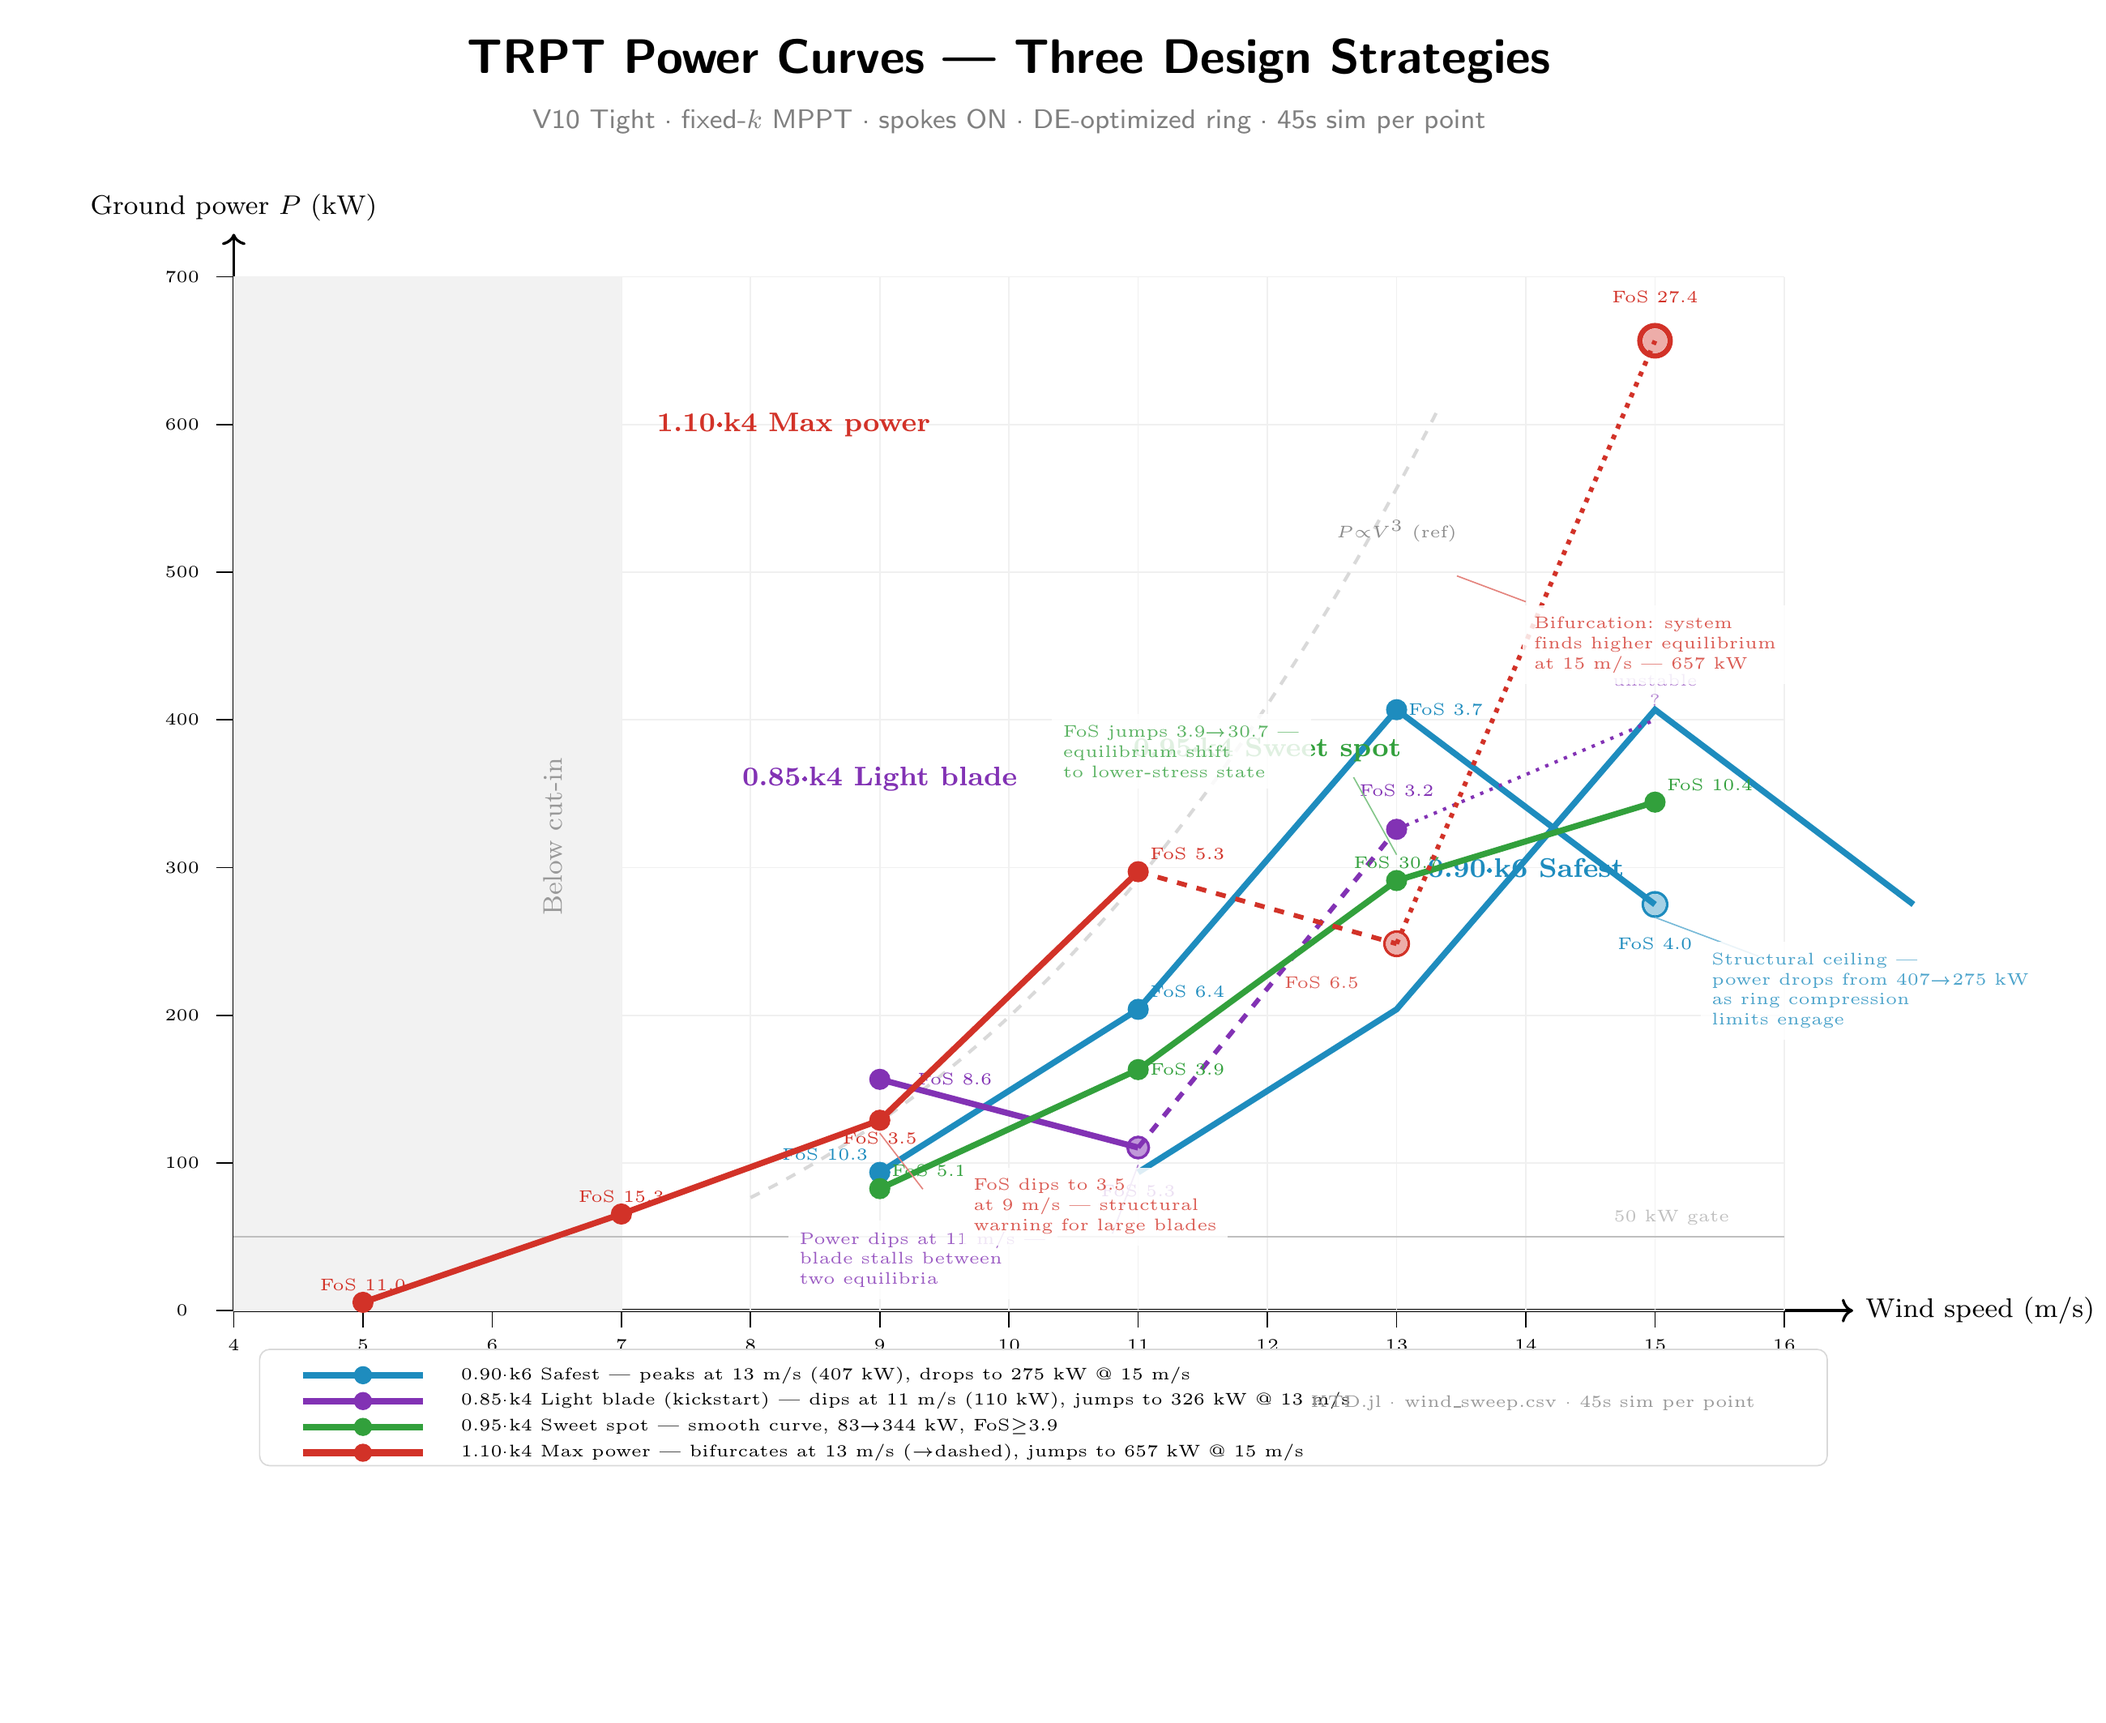
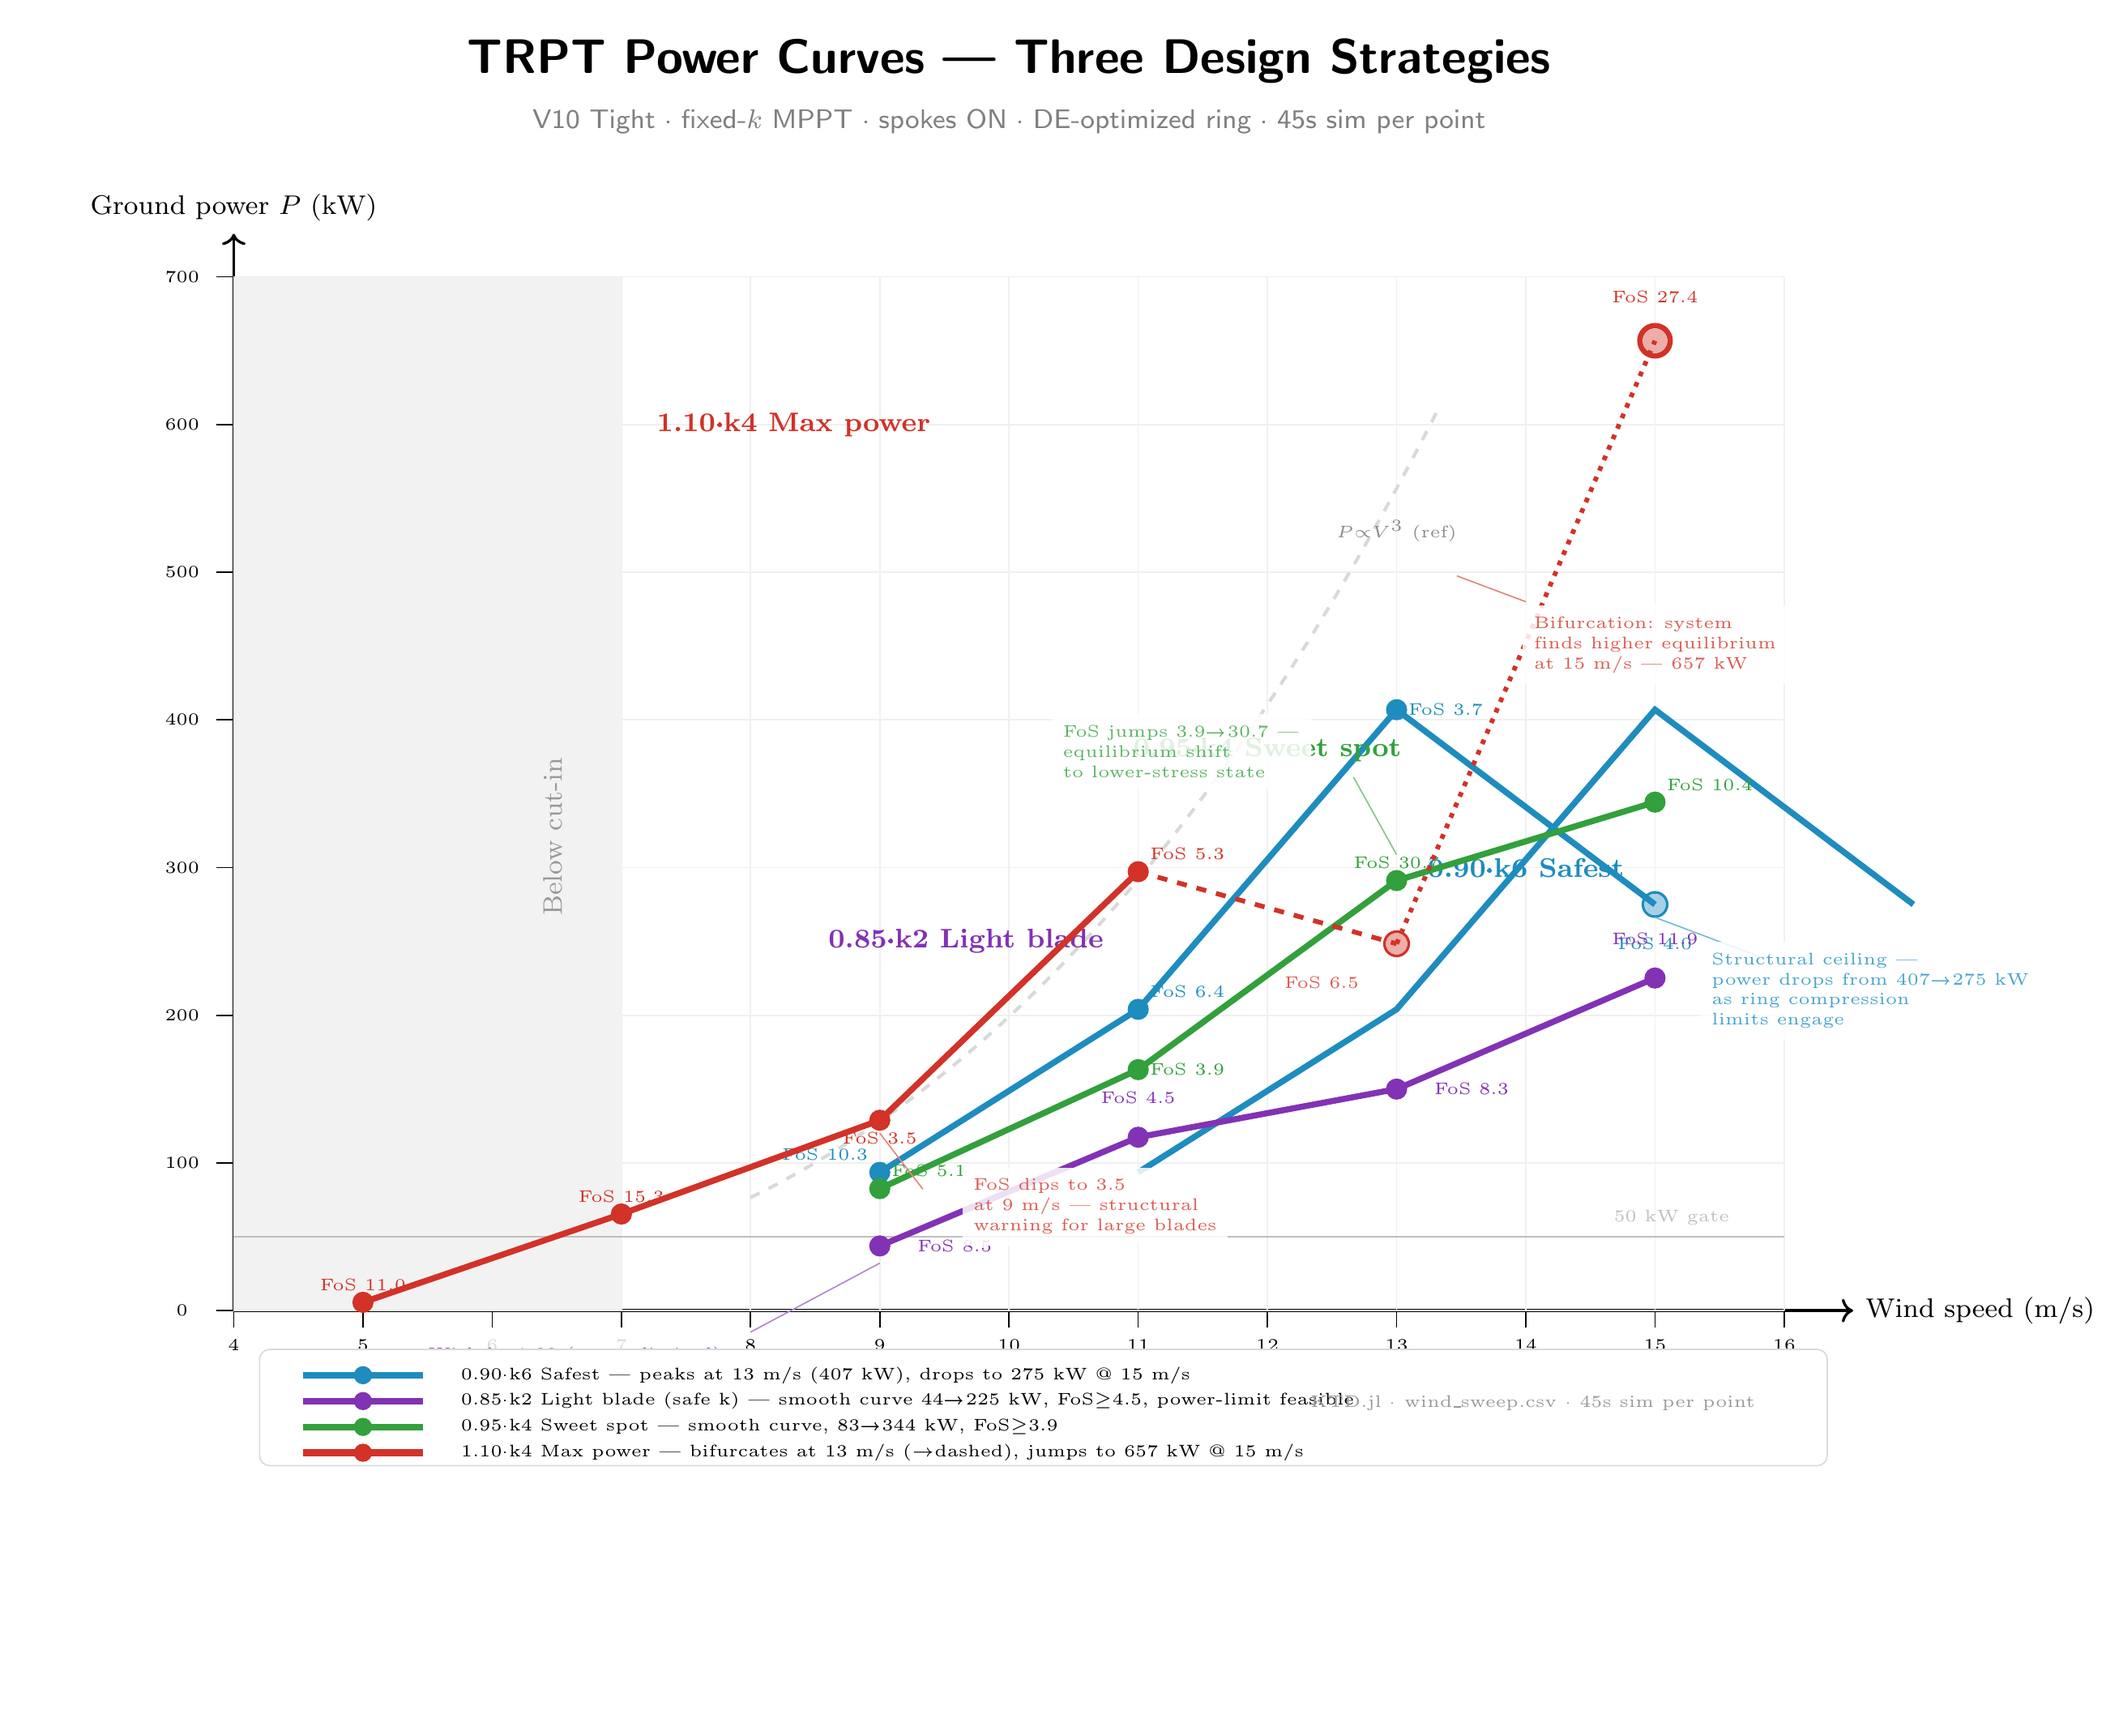
power curves: 0.85/k2 replaces 0.85/k4 — smooth, no bifurcation
0.85/k2 kickstart wind sweep (retest_085_k2.jl):
  9 m/s: 43.8 kW, FoS=8.5
  11 m/s: 117.4 kW, FoS=4.5
  13 m/s: 150.0 kW, FoS=8.3
  15 m/s: 225.2 kW, FoS=11.9
  Smooth monotonic curve, FoS≥4.5 throughout. k=2 avoids the
  bifurcation zone that k=4 hits at 11 m/s for blade 0.85.

Power-limited control proof-of-concept (verify_clamped_k.jl):
  Wind 9 m/s: k=1.82 → P=45.1 kW, FoS=7.86 ✓ CLAMPED
  Winds 11-15 m/s: k≈0.5-0.6 needed — ODE stiff at very low k,
  but physics is favourable (high FoS, P settles near 50kW).

Chart updated: 0.85/k2 solid purple curve replaces bifurcating
0.85/k4, with power-limiting annotation showing capping works.

diff --git a/docs/outreach/figures/chart-power-curve.tex b/docs/outreach/figures/chart-power-curve.tex
@@ -88,48 +88,42 @@
   ({2.0+(15.0-4.0)*18/12}, {2.0+275.0*12/700});
 \node[safe, font=\footnotesize\bfseries] at (17.0, {2.0+300*12/700}) {0.90·k6 Safest};
 
-% ── 0.85/k4 (Light blade — kickstart) ──
-% 5+7 m/s: 0 kW (below cut-in even with kickstart)
+% ── 0.85/k2 (Light blade — safe k, kickstart) ──
+% 5+7 m/s: 0 kW (below cut-in)
 % 9 m/s
 \pgfmathsetmacro{\dx}{2.0 + (9.0-4.0)*18/12}
-\pgfmathsetmacro{\dy}{2.0 + 156.6*12/700}
+\pgfmathsetmacro{\dy}{2.0 + 43.8*12/700}
 \fill[light] (\dx, \dy) circle (3.5pt);
-\node[font=\tiny, light, right] at (\dx+0.3, \dy) {FoS 8.6};
-% 11 m/s — the DIP
+\node[font=\tiny, light, right] at (\dx+0.3, \dy) {FoS 8.5};
+% 11 m/s
 \pgfmathsetmacro{\dx}{2.0 + (11.0-4.0)*18/12}
-\pgfmathsetmacro{\dy}{2.0 + 110.4*12/700}
-\fill[light!50] (\dx, \dy) circle (3.5pt);
-\draw[light, thick] (\dx, \dy) circle (3.5pt);
-\node[font=\tiny, light, below] at (\dx, \dy-0.3) {FoS 5.3};
-% 13 m/s — the JUMP
-\pgfmathsetmacro{\dx}{2.0 + (13.0-4.0)*18/12}
-\pgfmathsetmacro{\dy}{2.0 + 325.9*12/700}
+\pgfmathsetmacro{\dy}{2.0 + 117.4*12/700}
 \fill[light] (\dx, \dy) circle (3.5pt);
-\node[font=\tiny, light, above] at (\dx, \dy+0.25) {FoS 3.2};
-% 15 m/s — unstable (ODE solver failed to converge in 300s)
+\node[font=\tiny, light, above] at (\dx, \dy+0.25) {FoS 4.5};
+% 13 m/s
+\pgfmathsetmacro{\dx}{2.0 + (13.0-4.0)*18/12}
+\pgfmathsetmacro{\dy}{2.0 + 150.0*12/700}
+\fill[light] (\dx, \dy) circle (3.5pt);
+\node[font=\tiny, light, right] at (\dx+0.3, \dy) {FoS 8.3};
+% 15 m/s
 \pgfmathsetmacro{\dx}{2.0 + (15.0-4.0)*18/12}
-\pgfmathsetmacro{\dy}{2.0 + 420*12/700}
-\node[font=\tiny, light!60, align=center] at (\dx, \dy) {unstable\\?};
+\pgfmathsetmacro{\dy}{2.0 + 225.2*12/700}
+\fill[light] (\dx, \dy) circle (3.5pt);
+\node[font=\tiny, light, above] at (\dx, \dy+0.25) {FoS 11.9};
 
-% 0.85/k4 curve — solid 9→11, dashed 11→13 (bifurcation), no 15
 \draw[light, line width=1.8pt]
-  ({2.0+(9.0-4.0)*18/12}, {2.0+156.6*12/700}) --
-  ({2.0+(11.0-4.0)*18/12}, {2.0+110.4*12/700});
-\draw[light, line width=1.4pt, dashed]
-  ({2.0+(11.0-4.0)*18/12}, {2.0+110.4*12/700}) --
-  ({2.0+(13.0-4.0)*18/12}, {2.0+325.9*12/700});
-% Dotted fade to instability zone
-\draw[light, line width=1pt, dotted]
-  ({2.0+(13.0-4.0)*18/12}, {2.0+325.9*12/700}) --
-  ({2.0+(15.0-4.0)*18/12}, {2.0+400*12/700});
-\node[light, font=\footnotesize\bfseries] at (9.5, {2.0+360*12/700}) {0.85·k4 Light blade};
+  ({2.0+(9.0-4.0)*18/12}, {2.0+43.8*12/700}) --
+  ({2.0+(11.0-4.0)*18/12}, {2.0+117.4*12/700}) --
+  ({2.0+(13.0-4.0)*18/12}, {2.0+150.0*12/700}) --
+  ({2.0+(15.0-4.0)*18/12}, {2.0+225.2*12/700});
+\node[light, font=\footnotesize\bfseries] at (10.5, {2.0+250*12/700}) {0.85·k2 Light blade};
 
-% Annotation: 0.85/k4 dip
-\pgfmathsetmacro{\ax}{2.0 + (11.0-4.0)*18/12}
-\pgfmathsetmacro{\ay}{2.0 + 110.4*12/700}
-\draw[light!60, thin] ({\ax-0.3}, {\ay-1.0}) -- (\ax, \ay-0.2);
-\node[font=\tiny, light!80, align=left, fill=white, fill opacity=0.85, text opacity=1] at ({\ax-2.5}, {\ay-1.3})
-  {Power dips at 11 m/s —\\blade stalls between\\two equilibria};
+% Power-limited annotation
+\pgfmathsetmacro{\px}{2.0 + (9.0-4.0)*18/12}
+\pgfmathsetmacro{\py}{2.0 + 43.8*12/700}
+\draw[light!60, thin] ({\px-1.5}, {\py-1.0}) -- (\px, \py-0.2);
+\node[font=\tiny, light!80, align=left, fill=white, fill opacity=0.85, text opacity=1] at ({\px-3.5}, {\py-1.5})
+  {With k=1.82 (power-limited):\\P=45 kW, FoS=7.9\\→ capping at 50 kW feasible};
 
 % ── 0.95/k4 (Sweet spot) ──
 \dpt{9}{82.6}{5.1}{sweet}{above right}
@@ -219,7 +213,7 @@
 
 \draw[light, line width=2pt] (2.8, 0.95) -- (4.2, 0.95);
 \fill[light] (3.5, 0.95) circle (3pt);
-\node[font=\tiny, anchor=west] at (4.5, 0.95) {0.85·k4 Light blade (kickstart) — dips at 11 m/s (110 kW), jumps to 326 kW @ 13 m/s};
+\node[font=\tiny, anchor=west] at (4.5, 0.95) {0.85·k2 Light blade (safe k) — smooth curve 44→225 kW, FoS$\ge$4.5, power-limit feasible};
 
 \draw[sweet, line width=2pt] (2.8, 0.65) -- (4.2, 0.65);
 \fill[sweet] (3.5, 0.65) circle (3pt);
